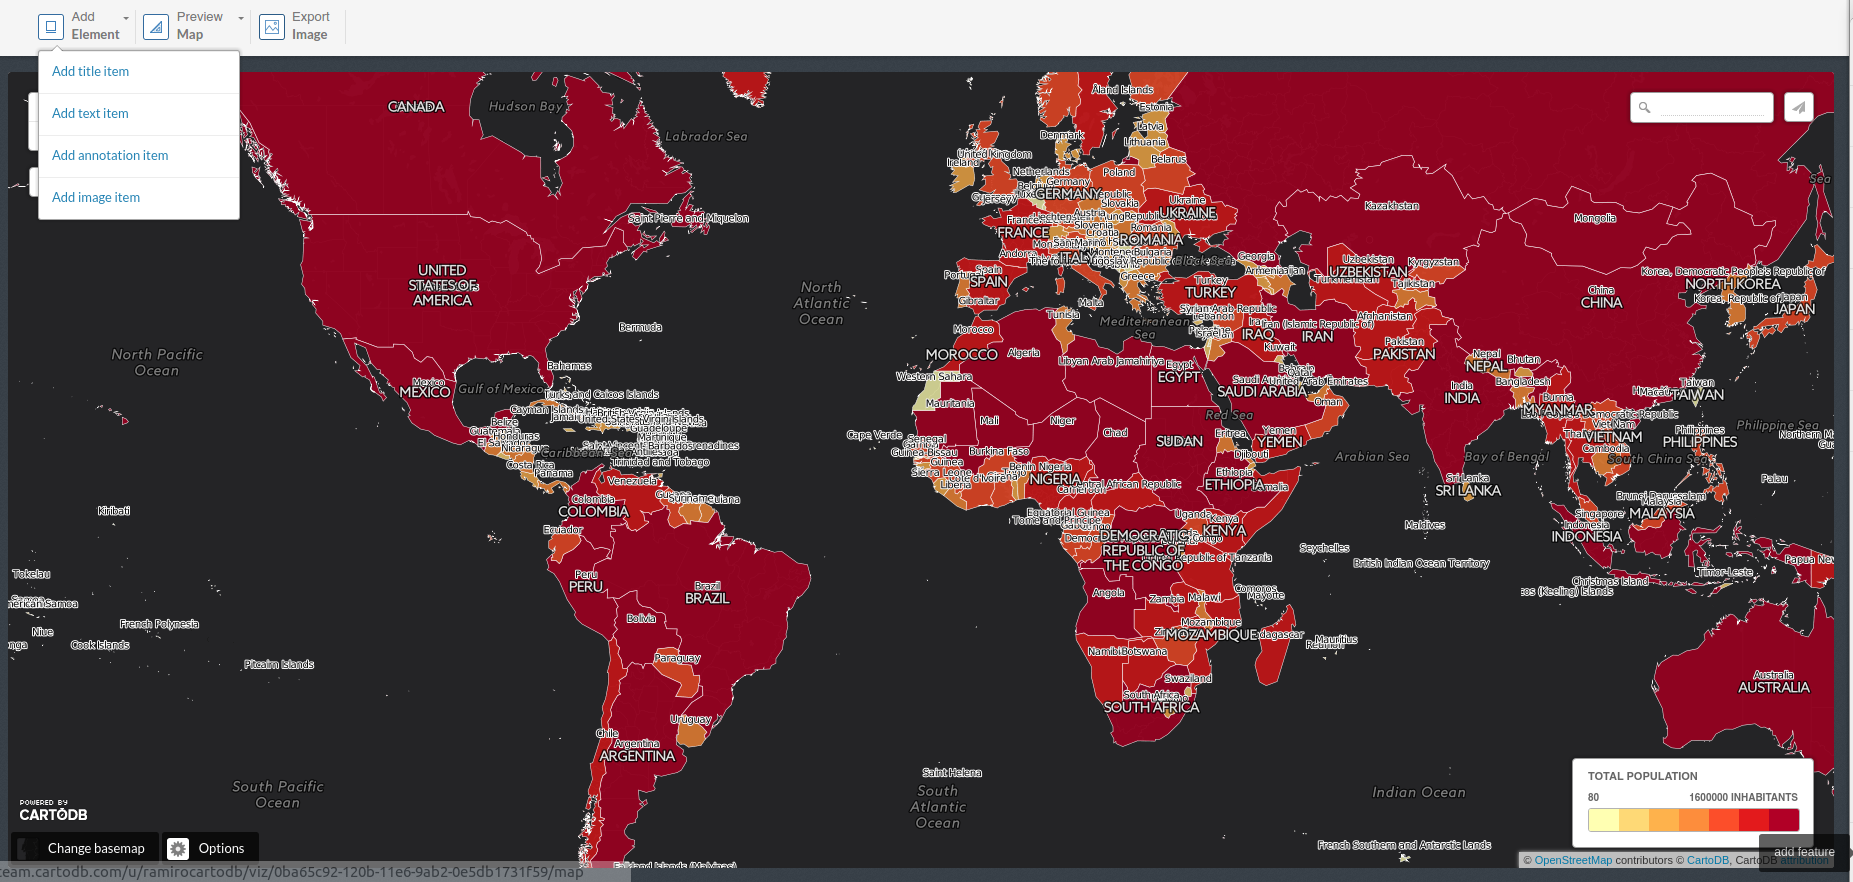
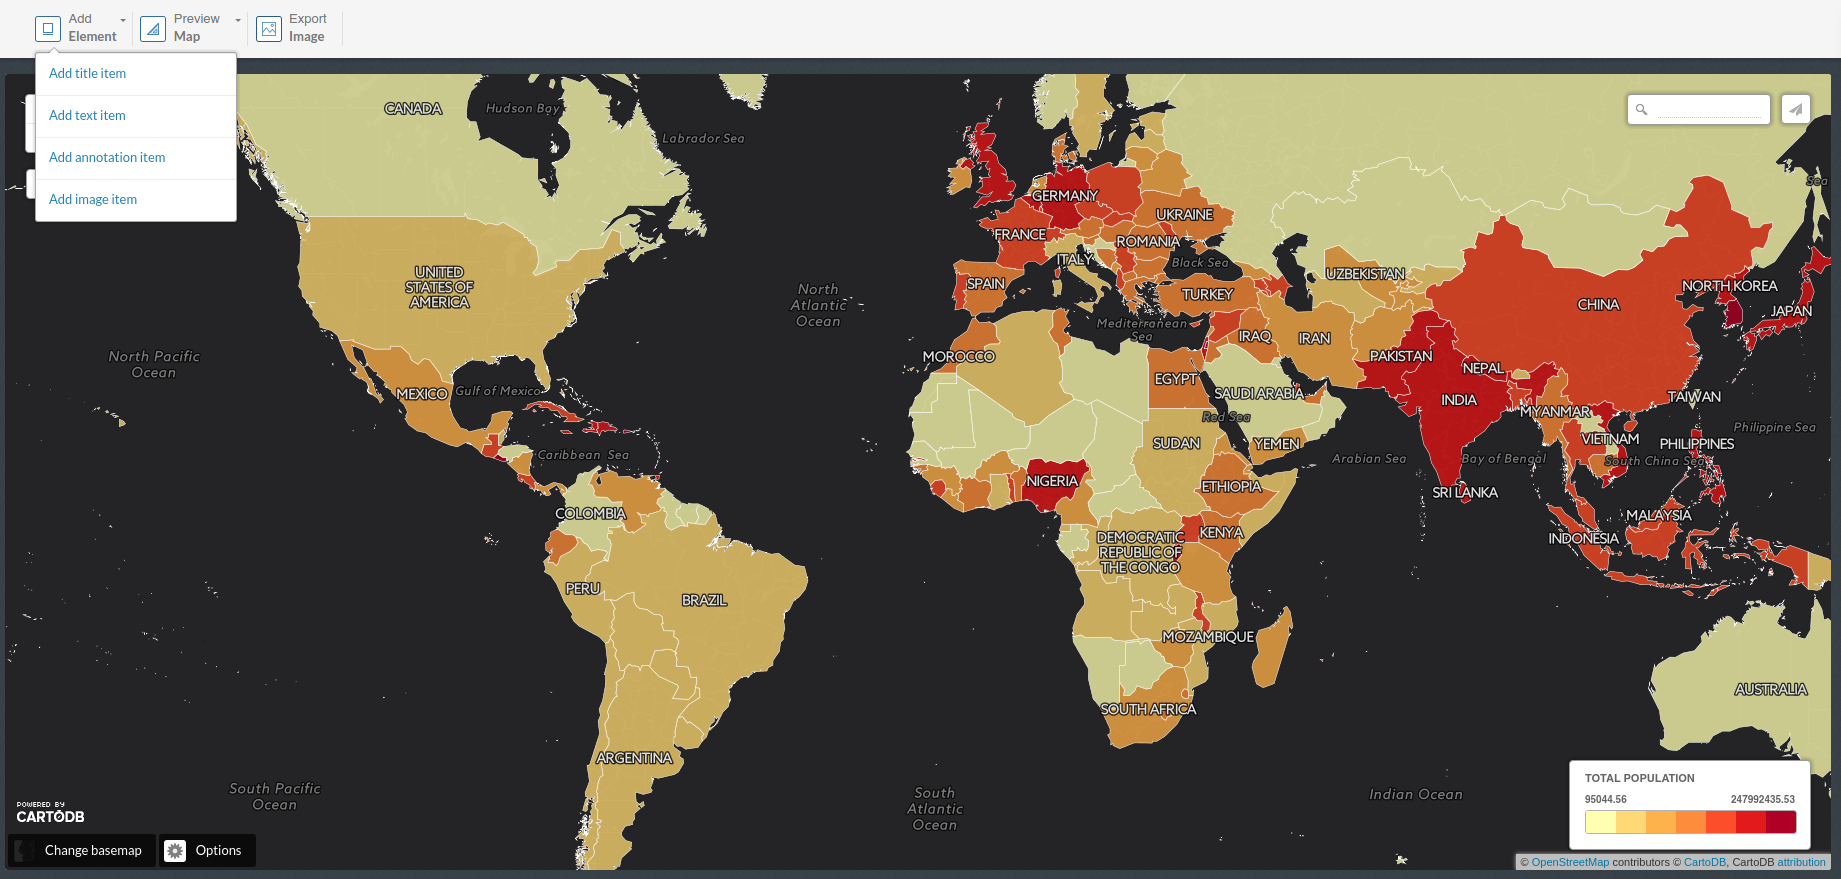
change pngs

diff --git a/_posts/2016-05-6-jpd16-intro.md b/_posts/2016-05-6-jpd16-intro.md
@@ -803,10 +803,10 @@ Know more about CartoCSS with our [documentation](http://docs.cartodb.com/cartod
 <div class="legend-title">Total Population</div>
 <ul>
 	<li class="min">
-		80
+		95044.56
 	</li>
 	<li class="max">
-		1600000 inhabitants
+		247992435.53
 	</li>
 	<li class="graph count_441">
 	<div class="colors">
@@ -855,9 +855,9 @@ Know more about CartoCSS with our [documentation](http://docs.cartodb.com/cartod
       <h4>country</h4>
       <p>{{name}}</p>
       <h4>population</h4>
-      <p>{{pop2005}}</p>
+      <p>{{pop_norm}}</p>
       <h4>area</h4>
-      <p>{{area}}</p>
+      <p>{{new_area}}</p>
     </div>
   </div>
   <div class="cartodb-popup-tip-container"></div>
@@ -870,10 +870,10 @@ Know more about CartoCSS with our [documentation](http://docs.cartodb.com/cartod
 
 ### 2. 4. Share your map!
 
-* **Get the link**: https://jpd16.cartodb.com/viz/f943009e-12ac-11e6-a1a1-0ecfd53eb7d3/public_map
+* **Get the link**: https://team.cartodb.com/u/ramirocartodb/viz/0ba65c92-120b-11e6-9ab2-0e5db1731f59/public_map
 
-* **Embed it**: <iframe width="100%" height="520" frameborder="0" src="https://jpd16.cartodb.com/viz/f943009e-12ac-11e6-a1a1-0ecfd53eb7d3/embed_map" allowfullscreen webkitallowfullscreen mozallowfullscreen oallowfullscreen msallowfullscreen></iframe>
+* **Embed it**: <iframe width="100%" height="520" frameborder="0" src="https://team.cartodb.com/u/ramirocartodb/viz/0ba65c92-120b-11e6-9ab2-0e5db1731f59/embed_map" allowfullscreen webkitallowfullscreen mozallowfullscreen oallowfullscreen msallowfullscreen></iframe>
 
-* **CartoDB.js**: https://jpd16.cartodb.com/api/v2/viz/f943009e-12ac-11e6-a1a1-0ecfd53eb7d3/viz.json
+* **CartoDB.js**: https://team.cartodb.com/u/ramirocartodb/api/v2/viz/0ba65c92-120b-11e6-9ab2-0e5db1731f59/viz.json
 
 ![share](../img/160506-jpd16/share.png)
